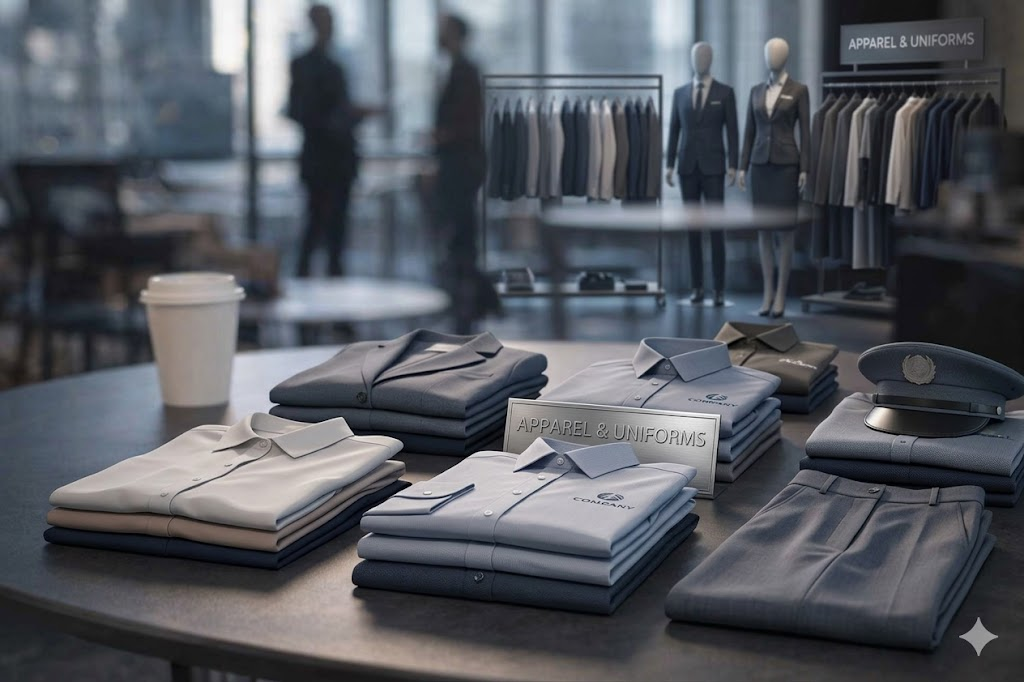
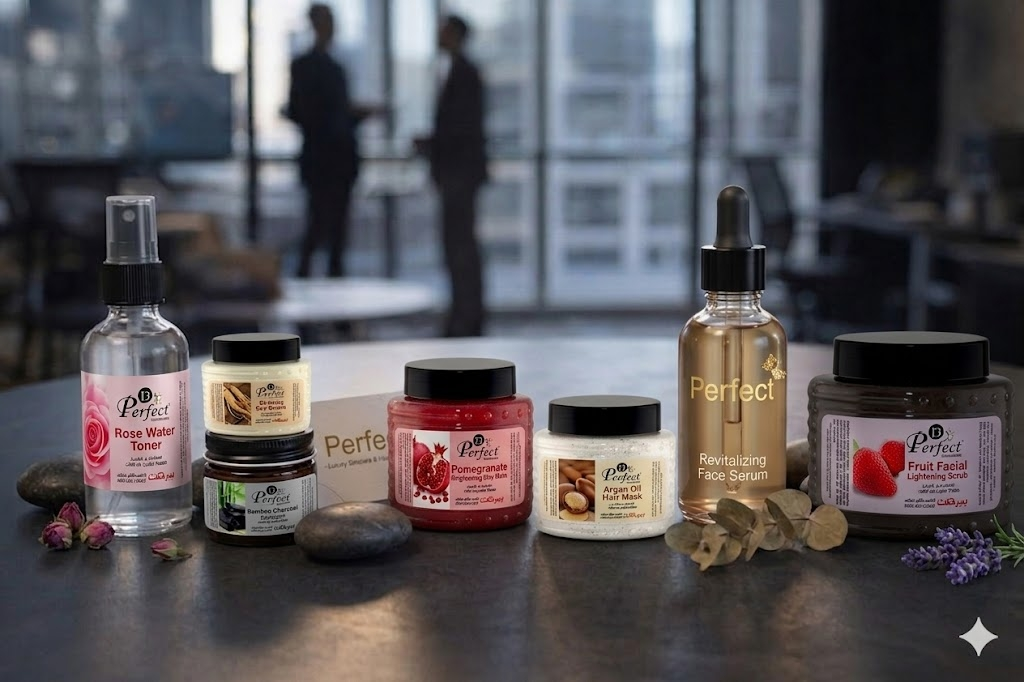
product images

diff --git a/index.html b/index.html
@@ -135,7 +135,16 @@
    <!-- svg width="42" height="42" viewBox="0 0 42 42" fill="none" xmlns="http://www.w3.org/2000/svg">
   <path d="M21 5L37 37H30L21 19L12 37H5L21 5Z" fill="currentColor"/>
   <path d="M21 24L26 33H16L21 24Z" fill="currentColor"/>
+<<<<<<< HEAD
 </svg--></div></a></div><nav role="navigation" class="nav-menu w-nav-menu"><a href="/" aria-current="page" class="nav-link w-nav-link w--current">HOME</a><a href="/#About" class="nav-link w-nav-link">ABOUT</a><a href="/#Projects" class="nav-link w-nav-link">PROJECTS</a><a href="/#Services" class="nav-link w-nav-link">CUSTOMISED PRODUCTS</a><a href="/#Contact" class="nav-link w-nav-link">CONTACT</a></nav><div class="menu-button w-nav-button"><div class="textsmall">Menu</div></div></div></div></div><div class="hero"><div class="generalcontainersite"><section class="herosite"><div class="w-layout-blockcontainer herowrapper w-container"><div class="blurelipse"></div><div class="herotextcontainer"><div class="texthero-2"><div class="creditsregister"><div class="textsmall-2 whitetext letterspacing4px">TO BE THE BEST</div></div></div><div class="herotitle"><h1 class="heading1" style="display: inline;">BEST TEAM</h1></div><div class="home-heading"><div class="max-description is-33rem"><div class="textsecondary"> 
+=======
+</svg-->
+</div></a></div><nav role="navigation" class="nav-menu w-nav-menu"><a href="/" aria-current="page" class="nav-link w-nav-link w--current">HOME</a><a href="/#About" class="nav-link w-nav-link">ABOUT</a><a href="/#Projects" class="nav-link w-nav-link">PROJECTS</a><a href="/#Services" class="nav-link w-nav-link">SERVICES</a><a href="/#Contact" class="nav-link w-nav-link">CONTACT</a></nav><div class="menu-button w-nav-button"><div class="textsmall">Menu</div></div></div></div></div><div class="hero"><div class="generalcontainersite"><section class="herosite"><div class="w-layout-blockcontainer herowrapper w-container"><div class="blurelipse"></div><div class="herotextcontainer"><div class="texthero-2"><div class="creditsregister"><div class="textsmall-2 whitetext letterspacing4px">TO BE THE BEST</div></div></div><div class="herotitle">
+  <h1 class="heading1" style="display: inline;">BEST TEAM</h1>
+    <h5 style="color: white;font-size: 50px;">TRADING</h5>
+</div>
+<div class="home-heading"><div class="max-description is-33rem"><div class="textsecondary"> 
+>>>>>>> 7461729 (product images)
   Distribution - Supply - Wholesale - B2B - Import & Export
 
   <br/></div></div></div><div class="ctahero"><a href="#Contact" class="button-10 w-inline-block"><div>Contact Us</div></a></div>
@@ -411,11 +420,11 @@ clubs needs.</p>
   <div data-w-id="0d709593-026f-74be-fcd5-6ac581cbd7d0" class="project-content"><div class="divmid"><h3 class="heading-2">Skin & Hair Care Products</h3></div><div class="project-content-footer"><div class="workstitle"><div class="textsmall">Branding</div></div><div class="workstitle"><div class="textsmall">Skin & Hair Care Products</div></div></div></div></a></div><div role="listitem" class="collection-item w-dyn-item"><a data-w-id="0d709593-026f-74be-fcd5-6ac581cbd7ce" href="/works/natale.html" class="project-link w-inline-block">
     <img loading="lazy" src="images/cat2.jpg" alt="Cat" class="project-thumbnail-2"/>
 
-    <div data-w-id="0d709593-026f-74be-fcd5-6ac581cbd7d0" class="project-content"><div class="divmid"><h3 class="heading-2">Sportswear & Sport Equipment</h3></div><div class="project-content-footer"><div class="workstitle"><div class="textsmall">Branding</div></div><div class="workstitle"><div class="textsmall">Sportswear & Sport Equipments</div></div></div></div></a></div><div role="listitem" class="collection-item w-dyn-item"><a data-w-id="0d709593-026f-74be-fcd5-6ac581cbd7ce" href="/works/School Unifrom.html" class="project-link w-inline-block"><img loading="lazy" src="https://cdn.prod.website-files.com/696959e4ed1e5a9d6799a354/696ab7d887ef9b4badefe3e9_ChatGPT%20Image%2016%20ene%202026%2C%2019_12_37.png" alt="" sizes="(max-width: 767px) 100vw, (max-width: 991px) 727px, 939px" srcset="https://cdn.prod.website-files.com/696959e4ed1e5a9d6799a354/696ab7d887ef9b4badefe3e9_ChatGPT%20Image%2016%20ene%202026%2C%2019_12_37-p-500.png 500w, https://cdn.prod.website-files.com/696959e4ed1e5a9d6799a354/696ab7d887ef9b4badefe3e9_ChatGPT%20Image%2016%20ene%202026%2C%2019_12_37-p-800.png 800w, https://cdn.prod.website-files.com/696959e4ed1e5a9d6799a354/696ab7d887ef9b4badefe3e9_ChatGPT%20Image%2016%20ene%202026%2C%2019_12_37-p-1080.png 1080w, https://cdn.prod.website-files.com/696959e4ed1e5a9d6799a354/696ab7d887ef9b4badefe3e9_ChatGPT%20Image%2016%20ene%202026%2C%2019_12_37.png 1536w" class="project-thumbnail-2"/><div data-w-id="0d709593-026f-74be-fcd5-6ac581cbd7d0" class="project-content"><div class="divmid"><h3 class="heading-2">School Unifroms</h3></div><div class="project-content-footer"><div class="workstitle"><div class="textsmall">Branding</div></div><div class="workstitle"><div class="textsmall">School Unifroms</div></div></div></div></a></div><div role="listitem" class="collection-item w-dyn-item"><a data-w-id="0d709593-026f-74be-fcd5-6ac581cbd7ce" href="/works/motion-studio.html" class="project-link w-inline-block"><img loading="lazy" src="https://cdn.prod.website-files.com/696959e4ed1e5a9d6799a354/696abbc5834f798d8a602790_ChatGPT%20Image%2016%20ene%202026%2C%2019_29_18.png" alt="" sizes="(max-width: 767px) 100vw, (max-width: 991px) 727px, 939px" srcset="https://cdn.prod.website-files.com/696959e4ed1e5a9d6799a354/696abbc5834f798d8a602790_ChatGPT%20Image%2016%20ene%202026%2C%2019_29_18-p-500.png 500w, https://cdn.prod.website-files.com/696959e4ed1e5a9d6799a354/696abbc5834f798d8a602790_ChatGPT%20Image%2016%20ene%202026%2C%2019_29_18-p-800.png 800w, https://cdn.prod.website-files.com/696959e4ed1e5a9d6799a354/696abbc5834f798d8a602790_ChatGPT%20Image%2016%20ene%202026%2C%2019_29_18-p-1080.png 1080w, https://cdn.prod.website-files.com/696959e4ed1e5a9d6799a354/696abbc5834f798d8a602790_ChatGPT%20Image%2016%20ene%202026%2C%2019_29_18.png 1536w" class="project-thumbnail-2"/><div data-w-id="0d709593-026f-74be-fcd5-6ac581cbd7d0" class="project-content"><div class="divmid"><h3 class="heading-2"></h3></div><div class="project-content-footer"><div class="workstitle"><div class="textsmall">Branding</div></div><div class="workstitle"><div class="textsmall">Motion Studio</div></div></div></div></a></div></div></div></div></div></section><section id="Services" class="section-home-services"><div class="header-section"><h2 text-split="" letters-fade-in-random="" class="slide-left-2"><strong class="bold-text">Customised Products</strong></h2><div class="max-description is-40"><div data-w-id="57bf5a6e-e142-4da0-a560-8d4b3482b25b" class="text-color-secondary slide-right">Through years of hands-on experience, we’ve built strong expertise in digital projects, applying clear, efficient methods to deliver high-quality, reliable results at every stage.</div></div></div><div class="padding-low"></div><div class="w-layout-grid service-grid"><div data-w-id="57bf5a6e-e142-4da0-a560-8d4b3482b25f" class="service-div"><div class="service-card"><div class="service-icon-box"><div class="w-embed"><svg width="48" height="48" viewBox="0 0 24 24" fill="none" stroke="#FFFFFF" stroke-width="1.8"   style="display:block" stroke-linecap="round" stroke-linejoin="round">
+    <div data-w-id="0d709593-026f-74be-fcd5-6ac581cbd7d0" class="project-content"><div class="divmid"><h3 class="heading-2">Sportswear & Sport Equipment</h3></div><div class="project-content-footer"><div class="workstitle"><div class="textsmall">Branding</div></div><div class="workstitle"><div class="textsmall">Sportswear & Sport Equipments</div></div></div></div></a></div><div role="listitem" class="collection-item w-dyn-item"><a data-w-id="0d709593-026f-74be-fcd5-6ac581cbd7ce" href="/works/School Unifrom.html" class="project-link w-inline-block"><img loading="lazy" src="images/cat3.jpg" alt="" sizes="(max-width: 767px) 100vw, (max-width: 991px) 727px, 939px" srcset="images/cat3.jpg 500w, https://cdn.prod.website-files.com/696959e4ed1e5a9d6799a354/696ab7d887ef9b4badefe3e9_ChatGPT%20Image%2016%20ene%202026%2C%2019_12_37-p-800.png 800w, https://cdn.prod.website-files.com/696959e4ed1e5a9d6799a354/696ab7d887ef9b4badefe3e9_ChatGPT%20Image%2016%20ene%202026%2C%2019_12_37-p-1080.png 1080w, images/cat3.jpg 1536w" class="project-thumbnail-2"/><div data-w-id="0d709593-026f-74be-fcd5-6ac581cbd7d0" class="project-content"><div class="divmid"><h3 class="heading-2">School Unifroms</h3></div><div class="project-content-footer"><div class="workstitle"><div class="textsmall">Branding</div></div><div class="workstitle"><div class="textsmall">School Unifroms</div></div></div></div></a></div><div role="listitem" class="collection-item w-dyn-item"><a data-w-id="0d709593-026f-74be-fcd5-6ac581cbd7ce" href="/works/motion-studio.html" class="project-link w-inline-block"><img loading="lazy" src="https://cdn.prod.website-files.com/696959e4ed1e5a9d6799a354/696abbc5834f798d8a602790_ChatGPT%20Image%2016%20ene%202026%2C%2019_29_18.png" alt="" sizes="(max-width: 767px) 100vw, (max-width: 991px) 727px, 939px" srcset="https://cdn.prod.website-files.com/696959e4ed1e5a9d6799a354/696abbc5834f798d8a602790_ChatGPT%20Image%2016%20ene%202026%2C%2019_29_18-p-500.png 500w, https://cdn.prod.website-files.com/696959e4ed1e5a9d6799a354/696abbc5834f798d8a602790_ChatGPT%20Image%2016%20ene%202026%2C%2019_29_18-p-800.png 800w, https://cdn.prod.website-files.com/696959e4ed1e5a9d6799a354/696abbc5834f798d8a602790_ChatGPT%20Image%2016%20ene%202026%2C%2019_29_18-p-1080.png 1080w, https://cdn.prod.website-files.com/696959e4ed1e5a9d6799a354/696abbc5834f798d8a602790_ChatGPT%20Image%2016%20ene%202026%2C%2019_29_18.png 1536w" class="project-thumbnail-2"/><div data-w-id="0d709593-026f-74be-fcd5-6ac581cbd7d0" class="project-content"><div class="divmid"><h3 class="heading-2"></h3></div><div class="project-content-footer"><div class="workstitle"><div class="textsmall">Branding</div></div><div class="workstitle"><div class="textsmall">Motion Studio</div></div></div></div></a></div></div></div></div></div></section><section id="Services" class="section-home-services"><div class="header-section"><h2 text-split="" letters-fade-in-random="" class="slide-left-2"><strong class="bold-text">Services</strong></h2><div class="max-description is-40"><div data-w-id="57bf5a6e-e142-4da0-a560-8d4b3482b25b" class="text-color-secondary slide-right">Through years of hands-on experience, we’ve built strong expertise in digital projects, applying clear, efficient methods to deliver high-quality, reliable results at every stage.</div></div></div><div class="padding-low"></div><div class="w-layout-grid service-grid"><div data-w-id="57bf5a6e-e142-4da0-a560-8d4b3482b25f" class="service-div"><div class="service-card"><div class="service-icon-box"><div class="w-embed"><svg width="48" height="48" viewBox="0 0 24 24" fill="none" stroke="#FFFFFF" stroke-width="1.8"   style="display:block" stroke-linecap="round" stroke-linejoin="round">
   <rect x="3" y="4" width="18" height="14" rx="2"/>
   <path d="M3 8h18"/>
   <path d="M8 20h8"/>
-</svg></div></div><div class="service-detail-div"><div class="titleservices"><strong class="bold-text-2">Product Creation</strong></div><p class="paragraph">High-performance websites built to convert and scale.</p></div><div class="service-list-detail-div"><div class="service-list-div"><img loading="lazy" src="https://cdn.prod.website-files.com/696959e4ed1e5a9d6799a34f/696959e4ed1e5a9d6799a646_Green.svg" alt="" class="service-check-icon"/><div class="paragraph">Responsive layouts</div></div><div class="service-list-div"><img loading="lazy" src="https://cdn.prod.website-files.com/696959e4ed1e5a9d6799a34f/696959e4ed1e5a9d6799a646_Green.svg" alt="" class="service-check-icon"/><div class="paragraph">Landing pages</div></div><div class="service-list-div"><img loading="lazy" src="https://cdn.prod.website-files.com/696959e4ed1e5a9d6799a34f/696959e4ed1e5a9d6799a646_Green.svg" alt="" class="service-check-icon"/><div class="paragraph">Custom visuals &amp; layouts</div></div></div></div></div><div data-w-id="57bf5a6e-e142-4da0-a560-8d4b3482b275" class="service-div"><div class="service-card"><div class="service-icon-box"><div class="w-embed"><svg width="48" height="48" viewBox="0 0 24 24" fill="none" stroke="#FFFFFF" stroke-width="1.8"   style="display:block;" stroke-linecap="round" stroke-linejoin="round">
+</svg></div></div><div class="service-detail-div"><div class="titleservices"><strong class="bold-text-2">Website Creation</strong></div><p class="paragraph">High-performance websites built to convert and scale.</p></div><div class="service-list-detail-div"><div class="service-list-div"><img loading="lazy" src="https://cdn.prod.website-files.com/696959e4ed1e5a9d6799a34f/696959e4ed1e5a9d6799a646_Green.svg" alt="" class="service-check-icon"/><div class="paragraph">Responsive layouts</div></div><div class="service-list-div"><img loading="lazy" src="https://cdn.prod.website-files.com/696959e4ed1e5a9d6799a34f/696959e4ed1e5a9d6799a646_Green.svg" alt="" class="service-check-icon"/><div class="paragraph">Landing pages</div></div><div class="service-list-div"><img loading="lazy" src="https://cdn.prod.website-files.com/696959e4ed1e5a9d6799a34f/696959e4ed1e5a9d6799a646_Green.svg" alt="" class="service-check-icon"/><div class="paragraph">Custom visuals &amp; layouts</div></div></div></div></div><div data-w-id="57bf5a6e-e142-4da0-a560-8d4b3482b275" class="service-div"><div class="service-card"><div class="service-icon-box"><div class="w-embed"><svg width="48" height="48" viewBox="0 0 24 24" fill="none" stroke="#FFFFFF" stroke-width="1.8"   style="display:block;" stroke-linecap="round" stroke-linejoin="round">
   <path d="M12 3l7 4v6c0 4.5-3.1 7.5-7 8-3.9-.5-7-3.5-7-8V7l7-4z"/>
   <path d="M9 12h6"/>
 </svg></div></div><div class="service-detail-div"><div class="titleservices"><strong class="bold-text-4">Brand Identity</strong></div><p class="paragraph">Brands designed to stand out and stay memorable.</p></div><div class="service-list-detail-div"><div class="service-list-div"><img loading="lazy" src="https://cdn.prod.website-files.com/696959e4ed1e5a9d6799a34f/696959e4ed1e5a9d6799a646_Green.svg" alt="" class="service-check-icon"/><div class="paragraph">Logo systems &amp; visuals</div></div><div class="service-list-div"><img loading="lazy" src="https://cdn.prod.website-files.com/696959e4ed1e5a9d6799a34f/696959e4ed1e5a9d6799a646_Green.svg" alt="" class="service-check-icon"/><div class="paragraph">Packaging &amp; brand assets</div></div><div class="service-list-div"><img loading="lazy" src="https://cdn.prod.website-files.com/696959e4ed1e5a9d6799a34f/696959e4ed1e5a9d6799a646_Green.svg" alt="" class="service-check-icon"/><div class="paragraph">Tone of voice &amp; positioning</div></div></div></div></div><div data-w-id="57bf5a6e-e142-4da0-a560-8d4b3482b28b" class="service-div"><div class="service-card"><div class="service-icon-box"><div class="w-embed"><svg width="48" height="48" viewBox="0 0 24 24" fill="none" stroke="#FFFFFF"   style="display:block;" stroke-width="1.8" stroke-linecap="round" stroke-linejoin="round">